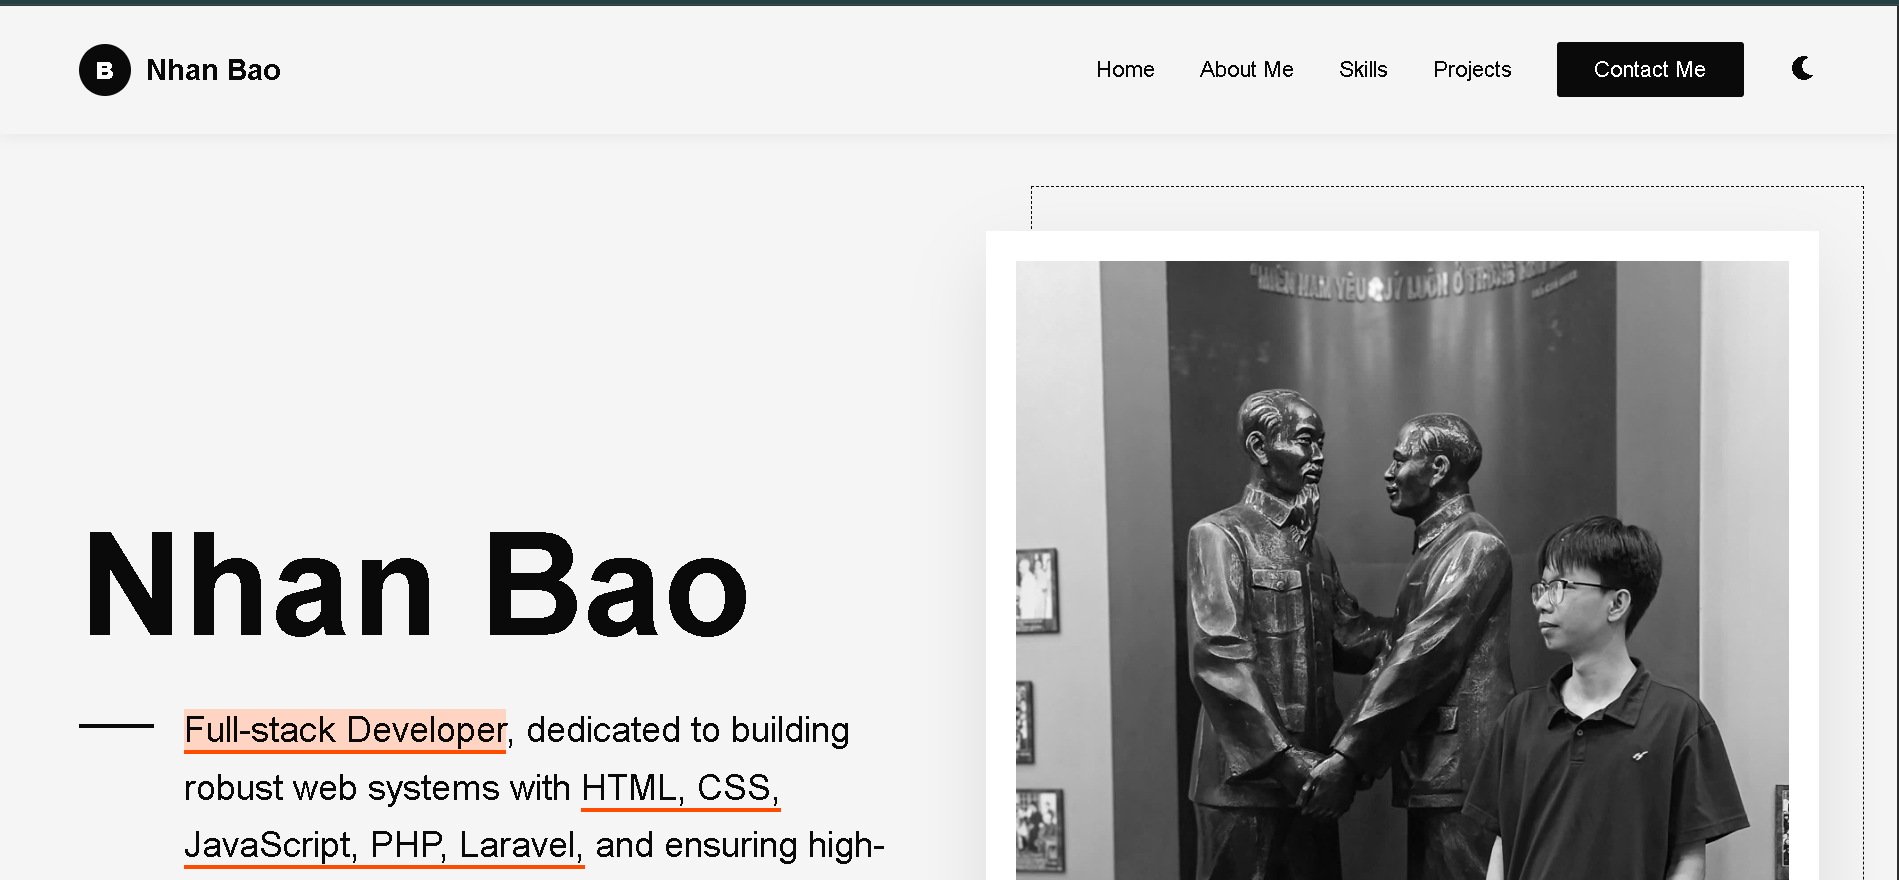
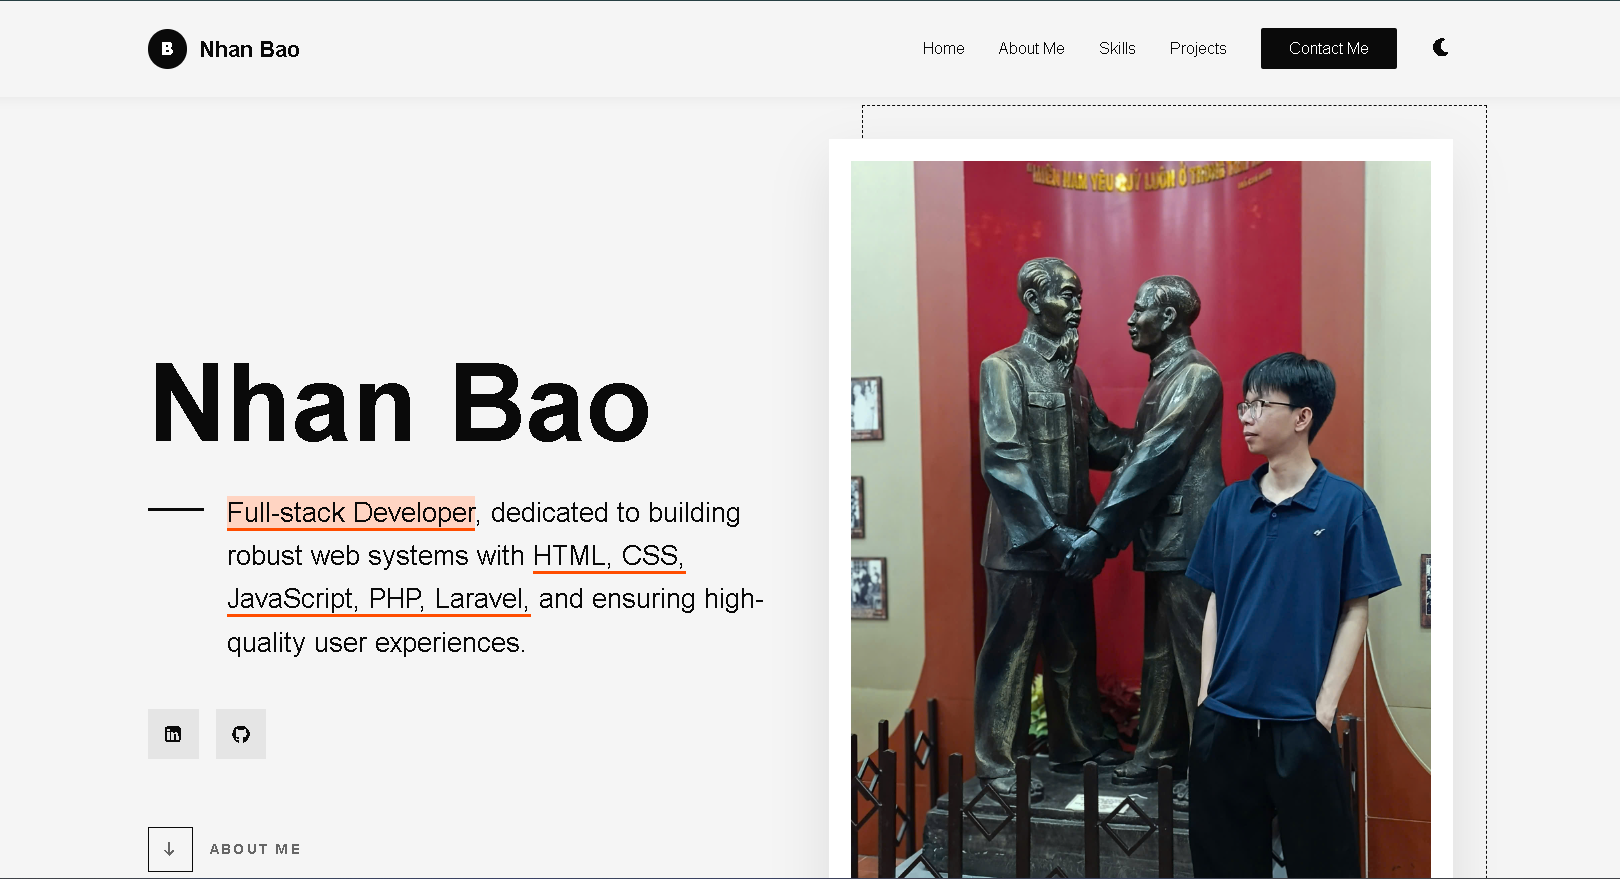
first commit

diff --git a/index.html b/index.html
@@ -158,8 +158,7 @@
             <div class="projects-grid">
                 <div class="project-card">
                     <div class="project-img">
-                        <img src="public/img/Front-End-Project.png"
-                            alt="Project 1">
+                        <img src="public/img/Front-End-Project.png" alt="Project 1">
                         <div class="project-overlay"><i class="fa-solid fa-external-link-alt"></i></div>
                     </div>
                     <div class="project-info">
@@ -177,34 +176,34 @@
                 </div>
                 <div class="project-card">
                     <div class="project-img">
-                        <img src="public/img/Portfolio.png"
-                            alt="Project 2">
+                        <img src="public/img/Portfolio.png" alt="Project 2">
                         <div class="project-overlay"><i class="fa-solid fa-external-link-alt"></i></div>
                     </div>
                     <div class="project-info">
-                        <h3>Paper Helicopter Wings</h3>
-                        <div class="project-skills"><span class="skill-line"></span> Skills: R Studio</div>
-                        <p>In this undergraduate project, we explored lift dynamics using paper helicopters. Applying
-                            techniques like ANOVA.</p>
+                        <h3>Personal Portfolio</h3>
+                        <div class="project-skills"><span class="skill-line"></span> Skills: HTML, CSS, JavaScript</div>
+                        <p>This is my personal portfolio website where I showcase my projects and skills.</p>
                         <div class="project-links">
-                            <a href="#"><i class="fa-regular fa-file-lines"></i> Report</a>
+                            <a href="#"><i class="fa-brands fa-github"></i> Github</a>
+                            <a href="https://technology-store.infinityfree.me/"><i class="fa-brands fa-chrome"></i> Live
+                                Demo</a>
                         </div>
                     </div>
                 </div>
                 <div class="project-card">
                     <div class="project-img">
-                        <img src="public/img/Techstore.png"
-                            alt="Project 3">
+                        <img src="public/img/Techstore.png" alt="Project 3">
                         <div class="project-overlay"><i class="fa-solid fa-external-link-alt"></i></div>
                     </div>
                     <div class="project-info">
-                        <h3>Cyclistic Analysis</h3>
-                        <div class="project-skills"><span class="skill-line"></span> Skills: R Studio, excel</div>
-                        <p>This project is to analyze how casual riders and annual members use Cyclistic bikes
-                            differently.</p>
+                        <h3>techStore</h3>
+                        <div class="project-skills"><span class="skill-line"></span> Skills: HTML, CSS, JavaScript, PHP,
+                            MySQL</div>
+                        <p>This project is a simple e-commerce website for a technology store.</p>
                         <div class="project-links">
                             <a href="#"><i class="fa-brands fa-github"></i> Github</a>
-                            <a href="#"><i class="fa-solid fa-file-lines"></i> Report</a>
+                            <a href="https://technology-store.infinityfree.me/"><i class="fa-brands fa-chrome"></i> Live
+                                Demo</a>
                         </div>
                     </div>
                 </div>
@@ -228,7 +227,8 @@
                     <div class="social-btns">
                         <a href="#"><i class="fa-solid fa-envelope"></i></a>
                         <a href="#"><i class="fa-brands fa-instagram"></i></a>
-                        <a href="https://www.linkedin.com/in/bao-nguyen-nhan-b64251381/"><i class="fa-brands fa-linkedin"></i></a>
+                        <a href="https://www.linkedin.com/in/bao-nguyen-nhan-b64251381/"><i
+                                class="fa-brands fa-linkedin"></i></a>
                     </div>
                 </div>
                 <div class="contact-location" style="margin-top: 15px; font-weight: 500;">
